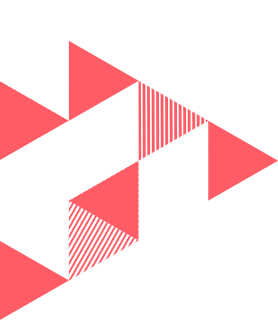
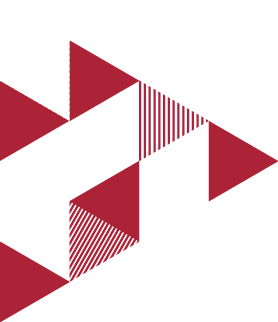
Chinese new year version

Changed region(s): [[0.0, 0.1242, 1.0, 1.0]]

diff --git a/chrome/js/manager.js b/chrome/js/manager.js
@@ -380,11 +380,33 @@ var initial_name_and_location = function () {
 }
 
 var place_tab = function(){
-  $("input:checked").parent().css("left" , $(window).width()*0.2 );
   var i = 0.2;
+  var default_background;
+  $("input:checked").parent().css("left" , $(window).width()*0.2 );
   $("input:checked").parent().siblings().each(function(){
     $(this).css("left" , $(window).width()*(i+=0.2));
   });
+  if( $(window).width() <= 1440 ){
+    if( $("input:checked").attr("id") == "sentence" ){
+      $("body").css("background-image" , "url(../resource/C1920x1440_a.jpg)");
+    }
+    if( $("input:checked").attr("id") == "ABC" ){
+      $("body").css("background-image" , "url(../resource/C1920x1440_b.jpg)");
+    }
+    if( $("input:checked").attr("id") == "cc" ){
+      $("body").css("background-image" , "url(../resource/C1920x1440_c.jpg)");
+    }
+  }else{
+    if( $("input:checked").attr("id") == "sentence" ){
+      $("body").css("background-image" , "url(../resource/C1920x1080_a.jpg)");
+    }
+    if( $("input:checked").attr("id") == "ABC" ){
+      $("body").css("background-image" , "url(../resource/C1920x1080_b.jpg)");
+    }
+    if( $("input:checked").attr("id") == "cc" ){
+      $("body").css("background-image" , "url(../resource/C1920x1080_c.jpg)");
+    }
+  }
 }
 
 var tab_animation = function () {
@@ -397,6 +419,31 @@ var tab_animation = function () {
     $("#"+last_tab).parent().css("left", tmp);
     last_tab = $(this).attr("id");
   });
+}
+
+var tab_background = function(){
+  var window_width = $(window).width();
+  if( window_width <= 1440 ){
+    $("label:eq(0)").click(function(){
+      $("body").css("background-image" , "url(../resource/C1920x1440_a.jpg)");
+    });
+    $("label:eq(1)").click(function(){
+      $("body").css("background-image" , "url(../resource/C1920x1440_b.jpg)");
+    });
+    $("label:eq(2)").click(function(){
+      $("body").css("background-image" , "url(../resource/C1920x1440_c.jpg)");
+    });
+  }else{
+    $("label:eq(0)").click(function(){
+      $("body").css("background-image" , "url(../resource/C1920x1080_a.jpg)");
+    });
+    $("label:eq(1)").click(function(){
+      $("body").css("background-image" , "url(../resource/C1920x1080_b.jpg)");
+    });
+    $("label:eq(2)").click(function(){
+      $("body").css("background-image" , "url(../resource/C1920x1080_c.jpg)");
+    });
+  }
 }
 
 var checked_pic = function(){
@@ -570,4 +617,5 @@ jQuery(function ($) {
   });
   tab_animation();
   place_tab();
+  tab_background();
 });

diff --git a/chrome/css/manager.css b/chrome/css/manager.css
@@ -12,7 +12,7 @@ font-family:MyCustomFont;
 
 }
 body {
-  background-image: url("../resource/C1920x1080.jpg");
+  background-color: #990000;
   background-size: 1920px 1080px;
   background-repeat: no-repeat;
   font-family:MyCustomFont,
@@ -35,15 +35,15 @@ a:hover {
 #ask-name {
   position:absolute;
   top:25%;
-  left:40%;
+  right: 0;
 }
 #ask-name h1 {
   font-size:66px;
-  color:#72828f;
+  color:#165169;
 }
 #ask-name h3 {
   font-size:36px;
-  color:#72828f;
+  color:#165169;
 }
 #ask-name textarea,
 #ask-name textarea:focus {
@@ -52,7 +52,7 @@ a:hover {
   width:100%;
   height:100px;
   font-size:80px;
-  background:rgba(114, 130, 143, 0.65);
+  background:rgba(22, 81, 105, 0.7);
   margin-right:0;
 }
 ::-webkit-scrollbar {
@@ -89,7 +89,7 @@ a:hover {
 #greeting_msg h2 {
   font-size:50px;
   font-weight:bold;
-  color:#F85B66;
+  color:#b62239;
 }
 #setting_btn {
   font-size:2em;
@@ -167,7 +167,7 @@ a:hover {
   top:40%;
   width:65%;
   left:20%;
-  color:#72828f;
+  color:#165169;
 }
 
 #sentence-content a{
@@ -196,7 +196,7 @@ a:hover {
   top:40%;
   left:20%;
   width:60%;
-  color:#72828f;
+  color:#165169;
 }
 #ABC-content a:hover,
 #ABC-content a:visited,
@@ -218,7 +218,7 @@ a:hover {
   top:40%;
   left:20%;
   width:60%;
-  color:#72828f;
+  color:#165169;
 }
 .layout-logo {
   position:absolute;
@@ -265,12 +265,12 @@ a:hover {
 }
 #ask-location h2 {
   font-size:66px;
-  color:#72828f;
+  color:#165169;
 }
 .location-choser,
 .location-choser:hover {
   width:100%;
-  background:rgba(114, 130, 143, 0.65);
+  background:rgba(22, 81, 105, 0.7);
   border:none;
   height:100px;
   text-align:left;
@@ -464,6 +464,7 @@ input[type=radio]{
 
 @media screen and (max-width:1440px){
   body{
+    background-color: #990000;
     background-size:1440px 900px;
     background-repeat: no-repeat;
   }
@@ -474,7 +475,7 @@ input[type=radio]{
 
 @media screen and (max-width : 1280px ){
   body{
-    background-image: url("../resource/C1920x1440.jpg");
+    background-color: #990000;
     background-size: 1280px 768px;
     background-repeat: no-repeat;
   }
@@ -489,11 +490,11 @@ input[type=radio]{
 #sentence-share-fb {
   font-size:20px;
   cursor:pointer;
-  background:white;
+  background:#1d7095;
   width:180px;
   height:30px;
   border-radius:10px;
-  color:#F85B66;
+  color:#ffffff;
   text-align:center;
 }
 

diff --git a/chrome/css/option_page.css b/chrome/css/option_page.css
@@ -14,7 +14,7 @@ font-family:MyCustomFont;
 body {
   font-family:MyCustomFont,
   sans-serif;
-  background:url("../resource/C1920x1080.jpg");
+  background:url("../resource/C1920x1080_a.jpg");
   background-size: 1920px 1080px;
   color:white;
 }
@@ -23,7 +23,7 @@ body {
   width:70%;
   left:15%;
   top:25%;
-  background:white;
+  background:rgba(255,255,255,0.7);
   border-radius:20px;
   font-size:25px;
   color:black;
@@ -32,16 +32,14 @@ body {
 input[type='text'] {
   padding:5px;
   vertical-align:middle;
-  background:rgb(232,
-  232,
-  232);
+  background:rgba(0,0,0,0.3);
   float:right;
   width:80%;
   margin-bottom:10px;
   text-align:right;
 }
 #logo {
-  color:#72828f;
+  color:#165169;
   position:absolute;
   top:10%;
   left:15%;
@@ -51,7 +49,7 @@ input[type='text'] {
   font-weight:bold;
 }
 #name {
-  color:black;
+  color:white;
   border:0;
 }
 #name:focus {
@@ -151,13 +149,13 @@ input[type='text'] {
 .content-logo {
   position:absolute;
   left:10%;
-  top:88%;
-  width:157px;
+  bottom:5%;
+  width:200px;
 }
 .share-in-content {
   position:absolute;
-  top:88%;
-  left:18%;
+  top:90%;
+  left:25%;
 }
 .share-in-content img {
   margin:0 5px;
@@ -278,7 +276,7 @@ input[type='text'] {
 
 @media screen and (max-width : 1280px ){
   body{
-    background-image: url("../resource/C1920x1440.jpg");
+    background-image: url("../resource/C1920x1440_a.jpg");
     background-size: 1280px 768px;
     background-repeat: no-repeat;
   }

diff --git a/chrome/manager.html b/chrome/manager.html
@@ -90,7 +90,6 @@
 
     <span id='turn-off'><i class='fa fa-times'></i></span>
   </div>
-
   <div id='content'>
     <img src='resource/img/others/icon-01-2.png' width='150px' class='layout-left-triangle' />
     <a href='options.html' title='設定'>
